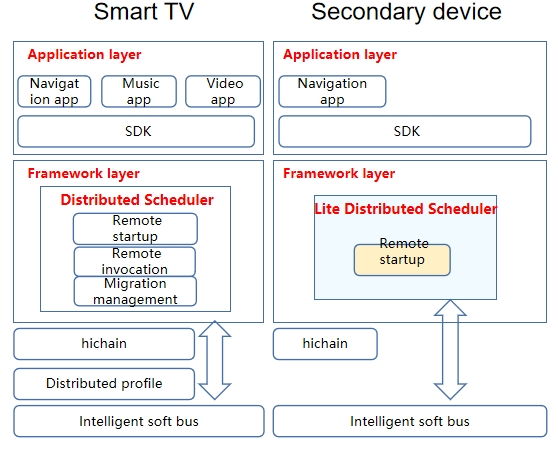
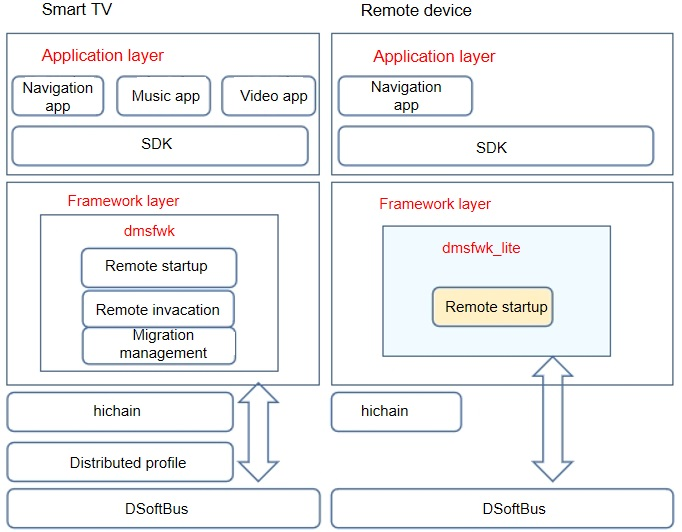
udpated Readme EN

Changed region(s): [[0.0, 0.0, 1.0, 1.0], [0.6093, 0.5231, 0.8226, 0.6154]]

diff --git a/README.md b/README.md
@@ -1,53 +1,36 @@
-# dmsfwk\_lite<a name="EN-US_TOPIC_0000001128264105"></a>
+# dmsfwk_lite
 
--   [Introduction](#section11660541593)
--   [Directory Structure](#section1464106163817)
--   [Constraints](#section1718733212019)
--   [Usage](#section10729231131110)
--   [Repositories Involved](#section176111311166)
+## Introduction
 
-## Introduction<a name="section11660541593"></a>
-
-The Lite Distributed Scheduler is used for cross-device component management. It allows the local device to start remote feature ability. The following figure shows the modules in the Distributed Scheduler.
+The Lite Distributed Ability Manager Service Framework (dmsfwk_lite) component provides the capability of starting Feature Abilities (FAs) across devices and supports application collaboration in distributed scenarios. The following figure shows the architecture of dmsfwk_lite.
 
 ![](figures/en-us_image_0000001081284974.png)
 
-## Directory Structure<a name="section1464106163817"></a>
+## Directory Structure
 
-The following table describes the directory structure of the Lite Distributed Scheduler.
+The table below describes the directory structure of the dmsfwk_lite source code.
 
-**Table 1**  Directory structure of the major source code
+**Table 1** Directory structure of the major source code
 
-<a name="table43531856201716"></a>
-<table><thead align="left"><tr id="row20416556201718"><th class="cellrowborder" valign="top" width="50%" id="mcps1.1.3.1.1"><p id="p10416456121716"><a name="p10416456121716"></a><a name="p10416456121716"></a>Directory</p>
-</th>
-<th class="cellrowborder" valign="top" width="50%" id="mcps1.1.3.1.2"><p id="p1841645631717"><a name="p1841645631717"></a><a name="p1841645631717"></a>Description</p>
-</th>
-</tr>
-</thead>
-<tbody><tr id="row64161056151718"><td class="cellrowborder" valign="top" width="50%" headers="mcps1.1.3.1.1 "><p id="p4160914132218"><a name="p4160914132218"></a><a name="p4160914132218"></a>dmsfwk_lite</p>
-</td>
-<td class="cellrowborder" valign="top" width="50%" headers="mcps1.1.3.1.2 "><p id="p541645611177"><a name="p541645611177"></a><a name="p541645611177"></a>Implementation of the Lite Distributed Scheduler</p>
-</td>
-</tr>
-</tbody>
-</table>
+| Directory       | Description                |
+| ----------- | -------------------- |
+| dmsfwk_lite | Implementation of dmsfwk_lite|
 
-The source code directory structure of the Lite Distributed Scheduler is as follows:
+The source code directory structure of dmsfwk_lite is as follows:
 
 ```
 ├── BUILD.gn
 ├── include
-│  ├── dmslite.h        # Header file for the open APIs provided by the Lite Distributed Scheduler
-│  ├── dmslite_check_remote_permission.h     # Header file for the permission management module of the Lite Distributed Scheduler
-│  ├── dmslite_famgr.h                       # Header file for the FA management module of the Lite Distributed Scheduler
-│  ├── dmslite_inner_common.h                # Internal common file for the Lite Distributed Scheduler
-│  ├── dmslite.h                             # Header file for the implementation of the Lite Distributed Scheduler Service (also called the Distributed Manager Service)
+│  ├── dmslite.h        # Header file for the open APIs provided by dmsfwk_lite
+│  ├── dmslite_check_remote_permission.h     # Header file for the permission management module of dmsfwk_lite
+│  ├── dmslite_famgr.h                       # Header file for the FA management module of dmsfwk_lite
+│  ├── dmslite_inner_common.h                # Internal common file of dmsfwk_lite
+│  ├── dmslite.h                             # Header file for the implementation of the dmsfwk_lite service
 │  ├── dmslite_log.h                         # Header file for the log module
-│  ├── dmslite_msg_parser.h                  # Header file for the distributed message parsing module
+│  ├── dmslite_parser.h                  # Header file for the distributed message parsing module
 │  ├── dmslite_tlv_common.h                  # Header file for the TLV data parsing module
 │  └── dmslite_session.h                     # Header file for the inter-device communication module
-├── README.md
+├── readme.md
 ├── LICENSE
 ├── source
     ├── distributed_schedule_service.c
@@ -59,65 +42,64 @@ The source code directory structure of the Lite Distributed Scheduler is as foll
     └── dmslite_session.c
 ```
 
-## Constraints<a name="section1718733212019"></a>
+## Constraints
 
 **Programming language**: C/C++
 
-**Networking environment**: The primary and secondary devices must be on the same LAN and can ping each other.
+**Networking environment**: The local and remote devices must be on the same LAN and can ping each other.
 
 **Operating system**: OpenHarmony
 
-**Limitations and constraints on remote startup**:
+**Remote startup**:
 
--   Only Feature Abilities \(FAs\) can be started remotely. 
--   Before the remote startup, ensure that the distributed networking between the primary and secondary devices is successful. Otherwise, the remote startup fails.
+-   Only FAs can be started remotely.
+-   Before the remote startup, ensure that the distributed networking between the local and remote devices is successful. Otherwise, the remote startup fails.
 
-## Usage<a name="section10729231131110"></a>
+## Usage
 
--   **Compiling and Building the Distributed Scheduler**
+- **Building**
 
-The code of the Lite Distributed Scheduler is stored in the following directory:
+  The code of dmsfwk_lite is stored in the following directory:
 
-```
-foundation/ability/dmsfwk_lite
-```
+  ```
+  foundation/ability/dmsfwk_lite
+  ```
+  
+  When building the code for a specific platform, you must specify the target platform.
+  
+  ```
+  hb build
+  ```
 
-When compiling and building the code for a specific platform, you need to specify the target platform.
+- **Local device development** (taking FA startup as an example)
 
-```
-hb build
-```
+  Create a **Want** instance to set the remote device ID, bundle name, and ability class name of the target FA and set the **Want.FLAG\_ABILITYSLICE\_MULTI\_DEVICE** flag to enable distributed startup.
 
--   **Primary device development**  \(taking FA startup as an example\)
+  ```
+  import ohos.aafwk.ability.Ability;
+  import ohos.aafwk.content.Want;
+  import ohos.bundle.ElementName;
 
-Create a  **Want**  instance to set the remote device ID, bundle name, and ability class name of the target FA and set the  **Want.FLAG\_ABILITYSLICE\_MULTI\_DEVICE**  flag to enable distributed startup.
+  // Create a Want instance that will be passed to the startAbility method.
+  Want want = new Want();
+  ElementName name = new ElementName(remote_device_id,       "ohos.dms.remote_bundle_name", "remote_ability_name"); 
+  want.setElement(name); // Add information about the target FA to the Want instance.
+  want.setFlags(Want.FLAG_ABILITYSLICE_MULTI_DEVICE); // Set the multi-device startup flag. If this flag is not set, remote FA startup will be unavailable.
 
-```
-import ohos.aafwk.ability.Ability;
-import ohos.aafwk.content.Want;
-import ohos.bundle.ElementName;
+  // Start the remote FA on the remote device.
+  startAbility(want); // Start the specified FA based on the want parameter. If the name and type of the want parameter are different from those used in DevEco Studio, use the parameter name and type in DevEco Studio.
+  ```
 
-// Create a Want instance that will be passed to the startAbility method.
-Want want = new Want();
-ElementName name = new ElementName(remote_device_id, "ohos.dms.remote_bundle_name", "remote_ability_name"); 
-want.setElement(name); // Add information about the target FA for startup to the Want instance.
-want.setFlags(Want.FLAG_ABILITYSLICE_MULTI_DEVICE); // Set the multi-device startup flag. If this flag is not set, remote FA startup will be unavailable.
+- **Prerequisites**
 
-// Start the remote FA on the secondary device.
-startAbility(want); // Start the specified FA based on the want parameter. If the name and type of the want parameter are different from those used in the IDE, use the parameter name and type in the IDE.
-```
+  The target FA with the specified bundle name must have been installed on the remote device.
 
--   **Prerequisites**
+- **Execution** (taking FA startup as an example)
 
-The target FA with the specified bundle name must have been installed on the secondary device.
+  Call the **startAbility** method on the local device to start the target FA on the remote device.
 
--   **Execution**  \(taking FA startup as an example\)
+## Repositories Involved
 
-Call the  **startAbility**  method on the primary device to start the target FA on the secondary device.
+dmsfwk_lite
 
-## Repositories Involved<a name="section176111311166"></a>
-
-**Lite Distributed Scheduler subsystem**
-
-[dmsfwk\_lite]
-
+[**dmsfwk\_lite**](https://gitee.com/openharmony/ability_dmsfwk_lite)
